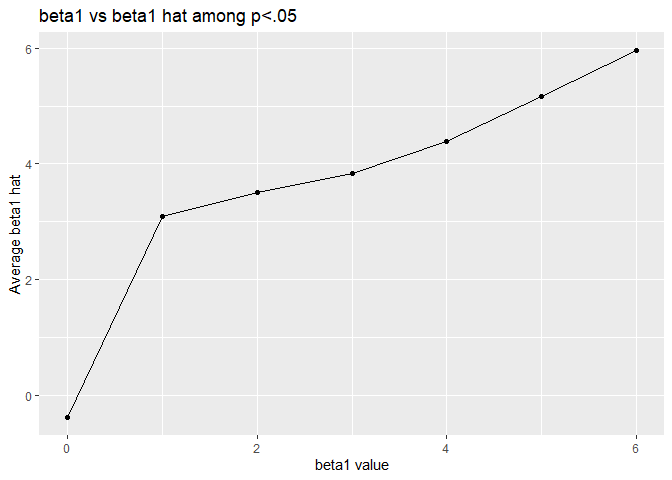
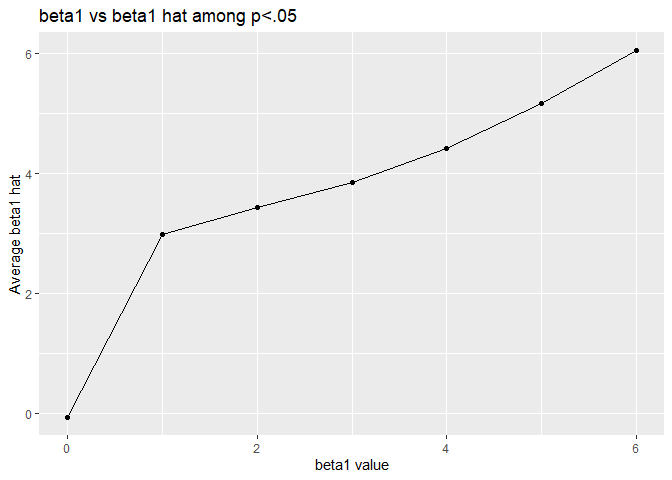
updates with rerun 10,000

diff --git a/HW-5.md b/HW-5.md
@@ -302,7 +302,7 @@ sim_results_all_b1 =
     beta_1 = c(0, 1, 2, 3, 4, 5, 6)
   ) %>% 
   mutate(
-    output_list = map(.x = beta_1, ~ rerun(1000, p3_data(beta1 = .x))),
+    output_list = map(.x = beta_1, ~ rerun(10000, p3_data(beta1 = .x))),
     output_df = map(output_list, bind_rows)
   ) %>% 
   select(-output_list) %>% 
